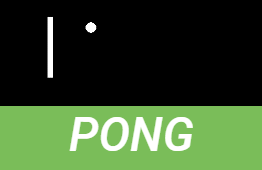
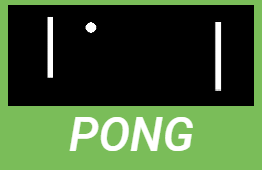
Nerfed bot, made menu button more clear

Changed region(s): [[0.0, 0.0, 1.0, 0.6471], [0.7939, 0.1176, 0.855, 0.5588]]

diff --git a/MainGame/Pong/pong.py b/MainGame/Pong/pong.py
@@ -15,7 +15,7 @@ PADDLE_WIDTH = 8
 PADDLE_HEIGHT = 90
 BALL_RADIUS = 8
 PLAYER_SPEED = 3.7
-ENEMY_SPEED = 3.5
+ENEMY_SPEED = 3.3
 
 font = pygame.font.SysFont('monospace', 40)
 
